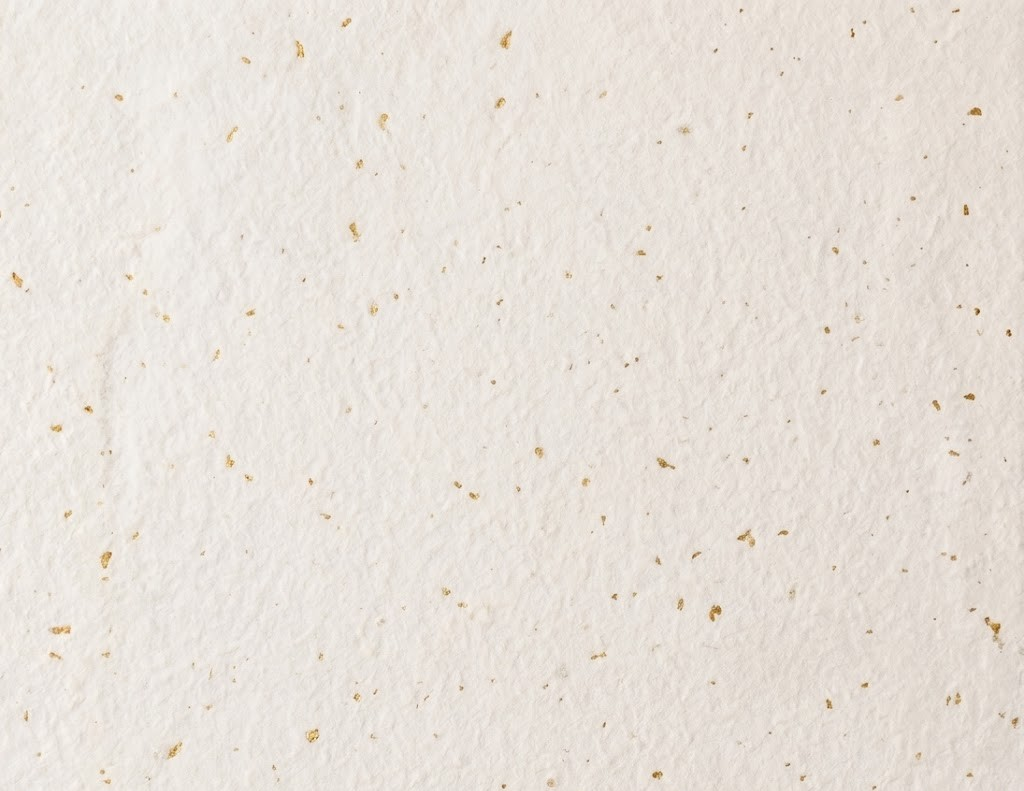
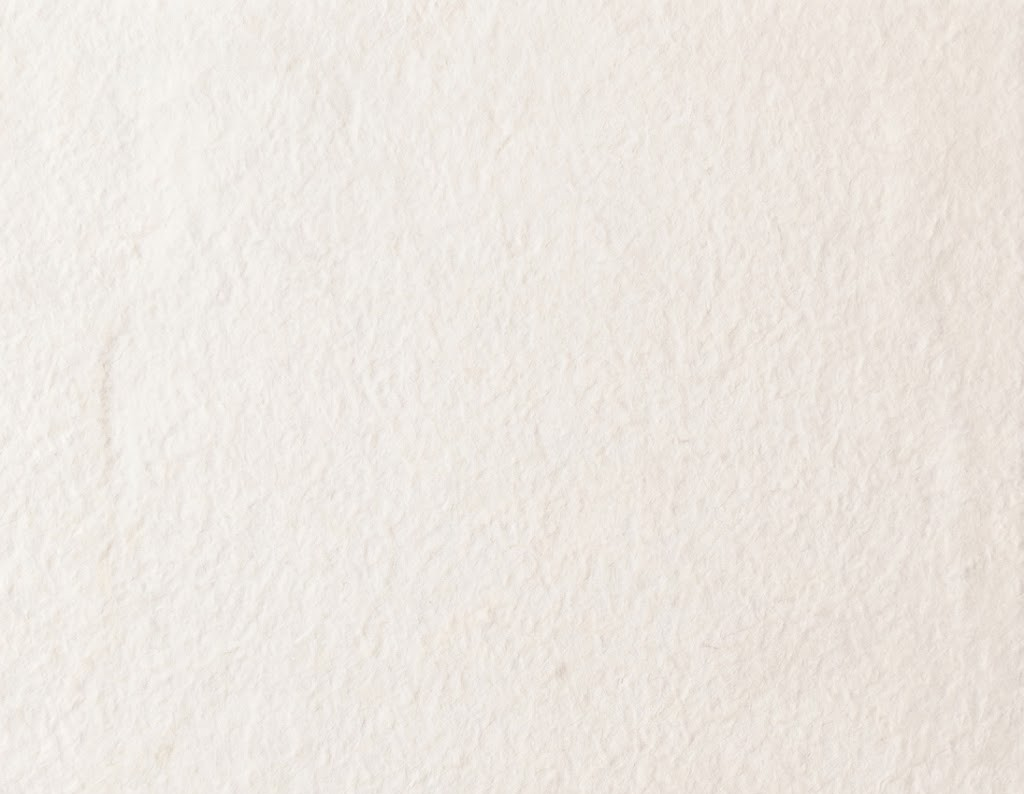
Nuevo_F

diff --git a/index.html b/index.html
@@ -12,7 +12,7 @@ body {
     font-family: 'Cormorant Garamond', Georgia, serif;
     text-align: center;
     color: #2bb8cc;
-    background-image: url('Fondo.jpg');
+    background-image: url('F.jpg');
     background-size: cover;          /* Hace que la imagen cubra toda la pantalla */
     background-position: center;     /* Centra la imagen */
     background-attachment: fixed;    /* El fondo se queda fijo al hacer scroll (opcional) */